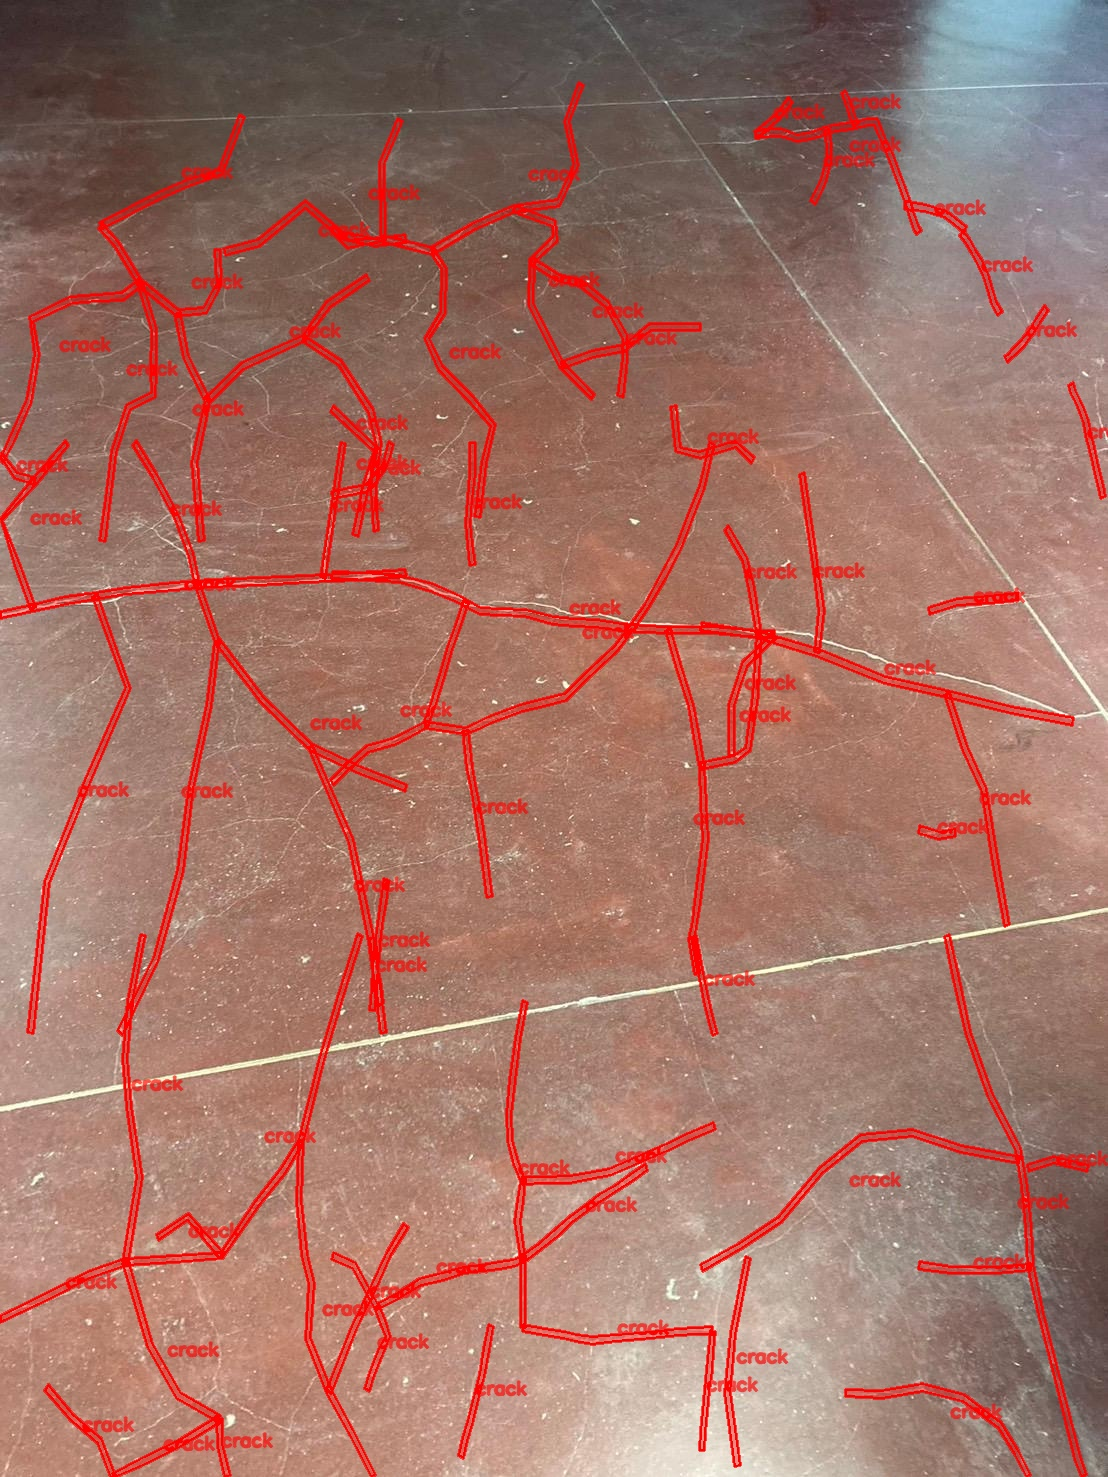
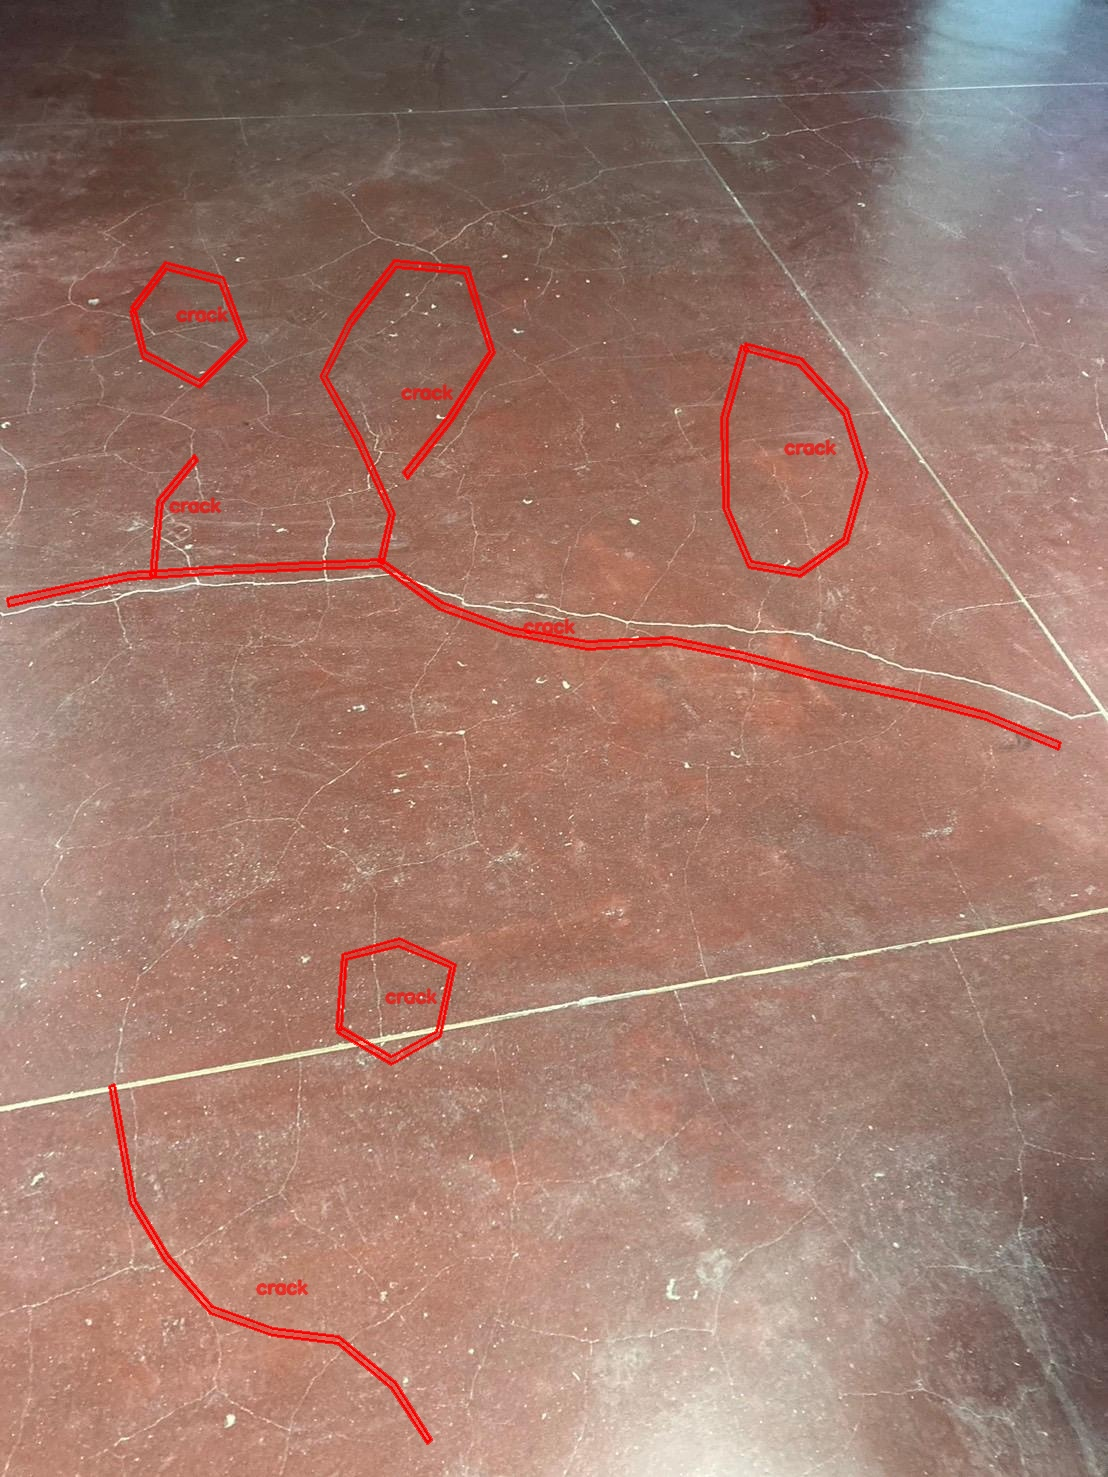
Nano Bananaの前までのバージョン

diff --git a/annotate_with_gemini_sam2.py b/annotate_with_gemini_sam2.py
@@ -37,18 +37,15 @@ CLASSES = {0: "crack"}
 
 def build_prompt(user_instruction: str) -> str:
     return f"""あなたは材料科学およびタイル外壁診断，建物外壁診断，コンクリート診断の専門家です。
-画像内のひび割れ（crack）を検出し、以下の形式で出力してください。
 
 ## 座標系の定義
 - 画像の左上を (x=0.0, y=0.0)、右下を (x=1.0, y=1.0) とします。
-- 小数点以下3桁まで正確に出力してください。
+
+## crack（ひび割れ）の定義
+ひび割れとは，建材のもつ基本的な見た目とは異なる，折れ線状，亀甲状（網目状）の欠陥です．
 
 ## crack（ひび割れ）の出力形式
-- ひびの【中心線上の点列】を `points` として出力してください。
-- ひびを始点から終点まで順番に追いながら、曲がり角や分岐ごとに点を打ってください（1本のひびにつき5〜50点程度）。
-- ポリゴンや面積ではなく、線（ポリライン）として表現します。
-- 【重要】目地（タイル・石材の継ぎ目、規則的なグリッド直線）は絶対に crack としないこと。
-- 汚れ・影・光沢・色むら・表面テクスチャは除外。物理的に材料が割れた不規則な亀裂のみを対象とする。
+- ひび割れのすべての分岐点，屈曲点，始点，終端を正確に反映した詳細なトレース図を生成できるように，`points`（点群） として出力してください。
 
 ## アノテーション指示
 {user_instruction}
